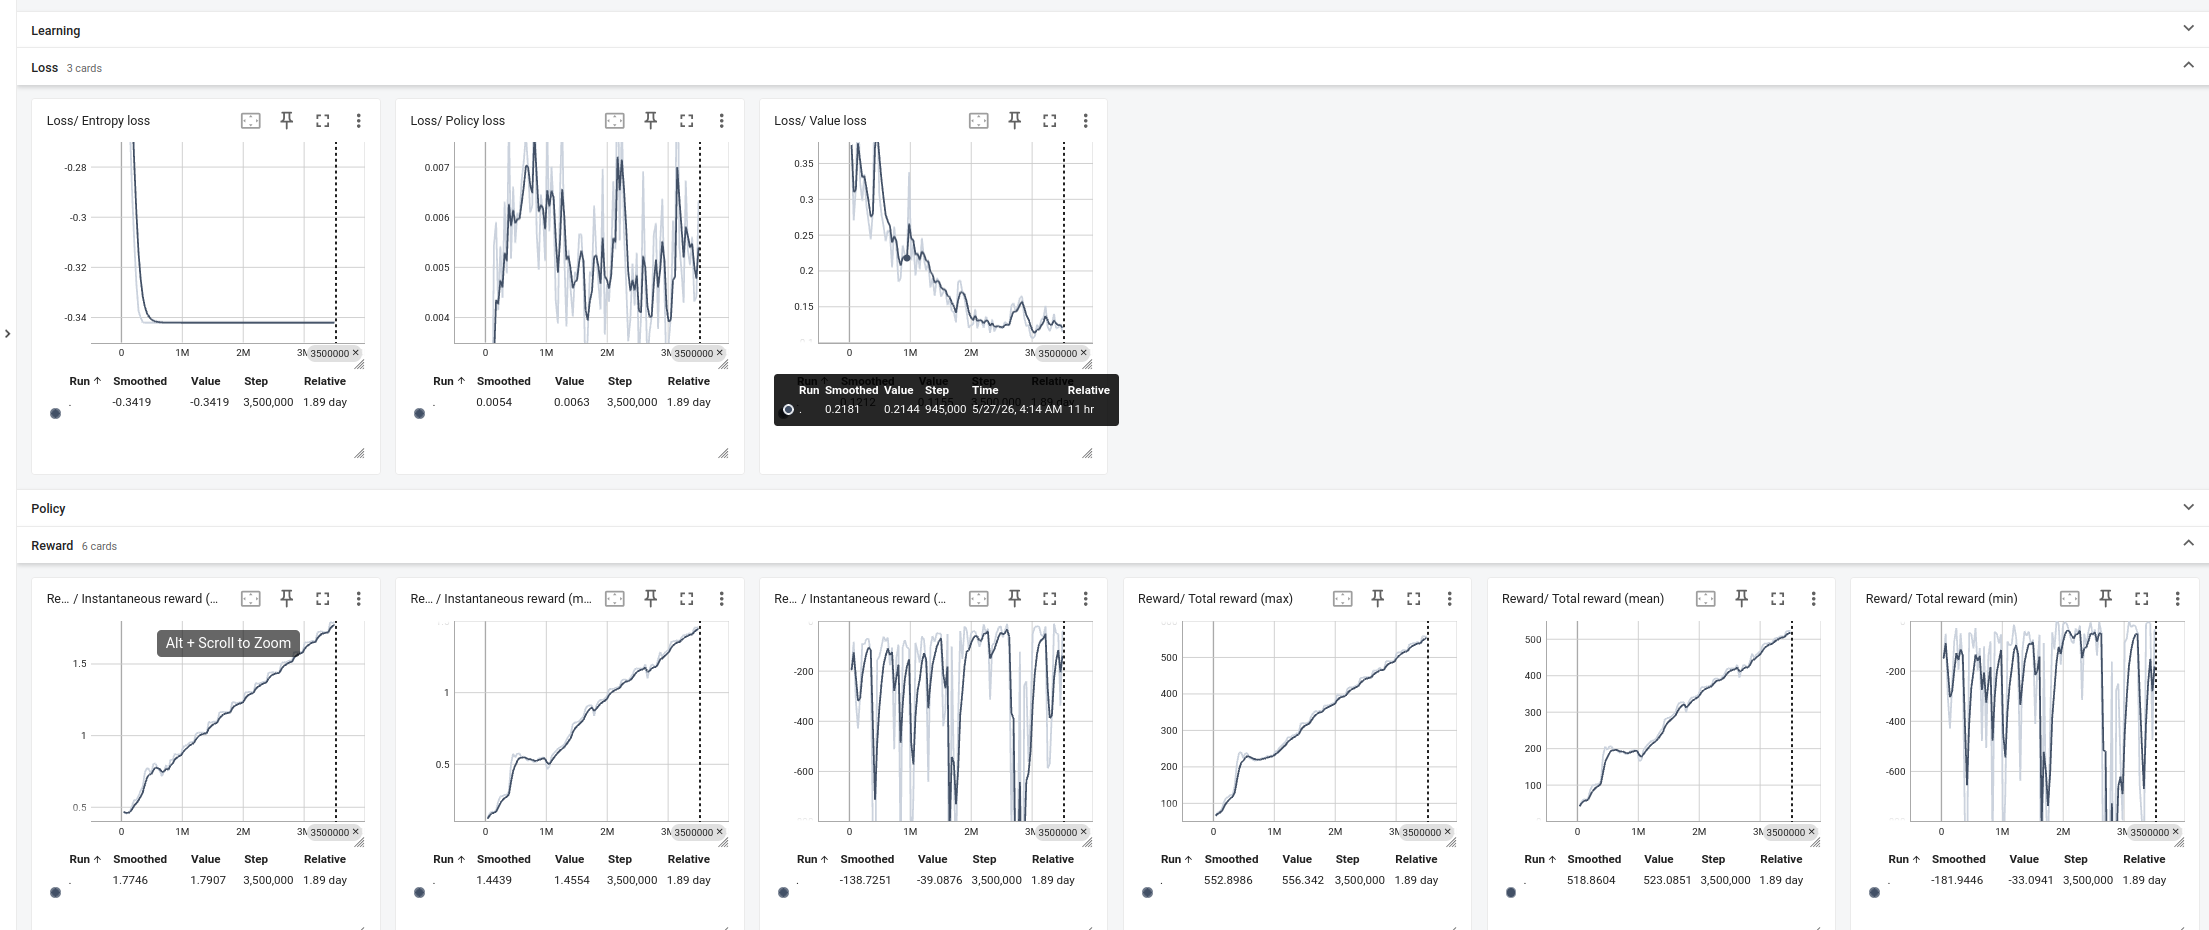
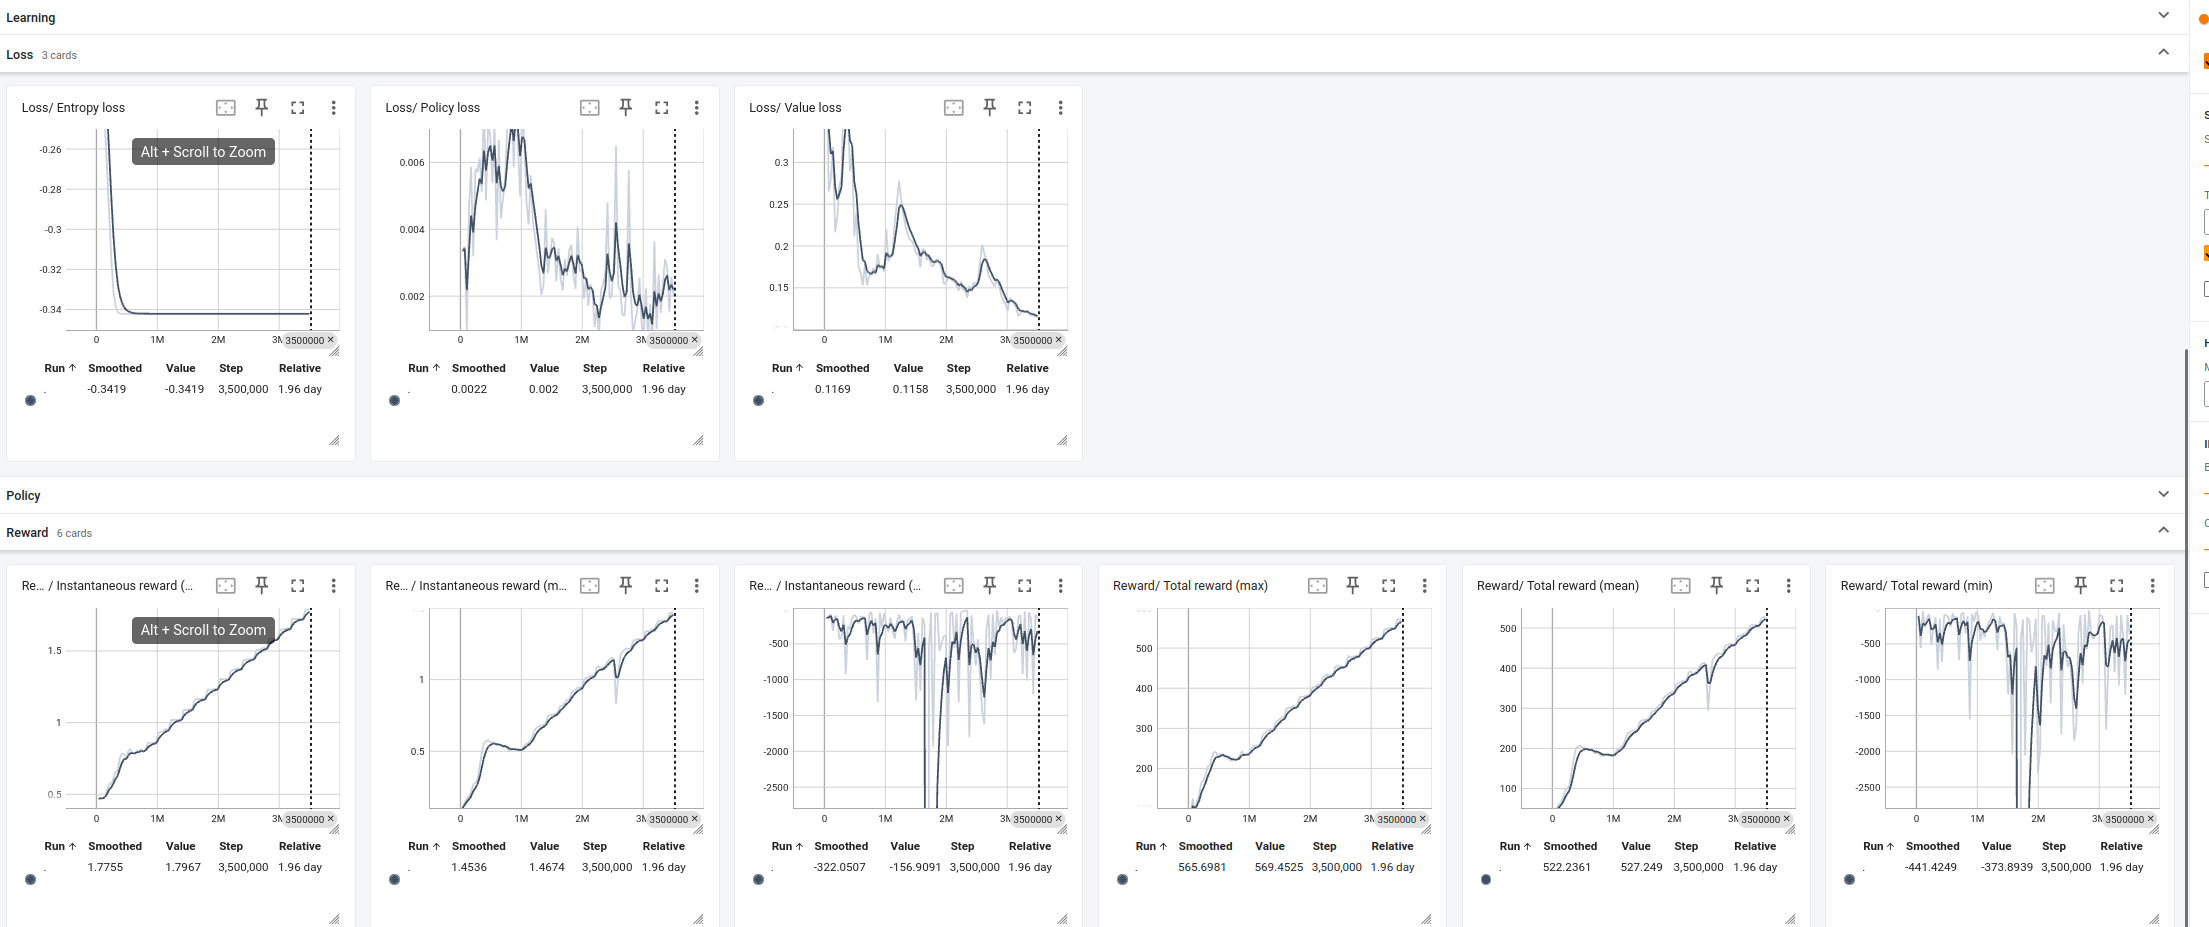
Update readme for randomized task configuration

diff --git a/README.md b/README.md
@@ -11,9 +11,9 @@ This project utilizes **Proximal Policy Optimization (PPO)** as the core reinfor
 
 ## 📈 Training Metrics & Policy Evaluation
 
-The following presents the TensorBoard metrics recorded during training, alongside a demonstration of the trained policy evaluated in simulation using the `play` script (checkpoint loaded at 3,150,000 steps). 
+The following presents the TensorBoard metrics recorded during training, alongside a demonstration of the trained policy evaluated in simulation using the `play` script (checkpoint loaded at 3,500,000 steps). 
 
-As illustrated, the policy successfully generates diverse, adaptive trajectories to transport the cube to the target across parallel environment instances. It effectively handles randomized initial cube positions (`x: 0.35–0.5, y: -0.2–0.5`) and randomized target commands (`x: 0.6–0.8, y: -0.5–-0.3, z: 0.2–0.3`), demonstrating robust spatial generalization and consistent task completion.
+As illustrated, the policy successfully generates diverse, adaptive trajectories to transport the cube to the target across parallel environment instances. It effectively handles randomized initial cube positions (`x: 0.35–0.5, y: -0.5–0.5`) and randomized target commands (`x: 0.3–0.5, y: -0.5–0.5, z: 0.1–0.5`), demonstrating robust spatial generalization and consistent task completion.
 
 #### Tensorboard metrics
 Reward metrics:
@@ -57,6 +57,6 @@ The training schedule progressively increases task complexity to stabilize learn
 - **Physics Solver**: Solver position/velocity iterations set to `32` for robust contact handling.
 
 ## 📋 TODO
-- [ ] Add a stabilization reward to maintain the cube's position after reaching the target.
+- [x] Add a stabilization reward to maintain the cube's position after reaching the target.
 - [ ] Increase the randomization range for initial cube and target positions to improve generalization.
 - [ ] Compute and log rollout success rates in the `play` script.
